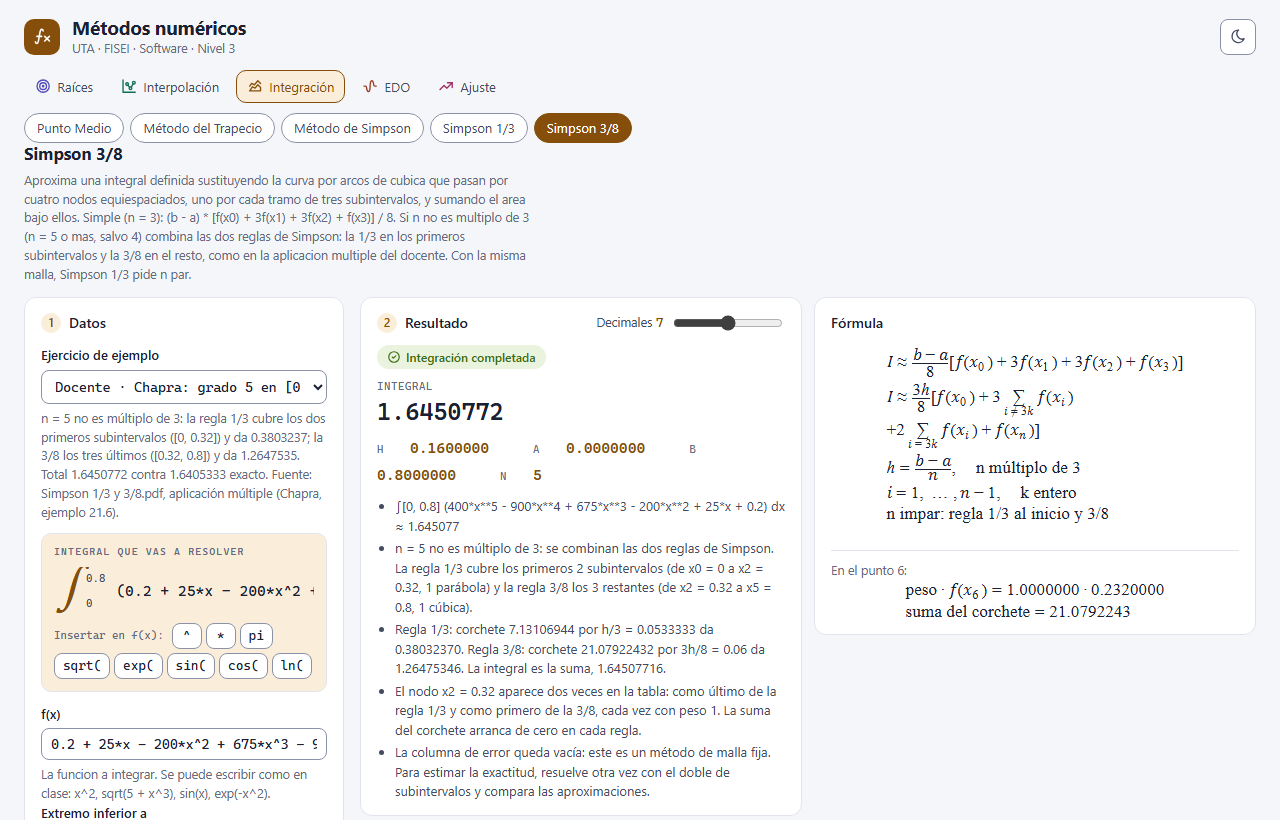
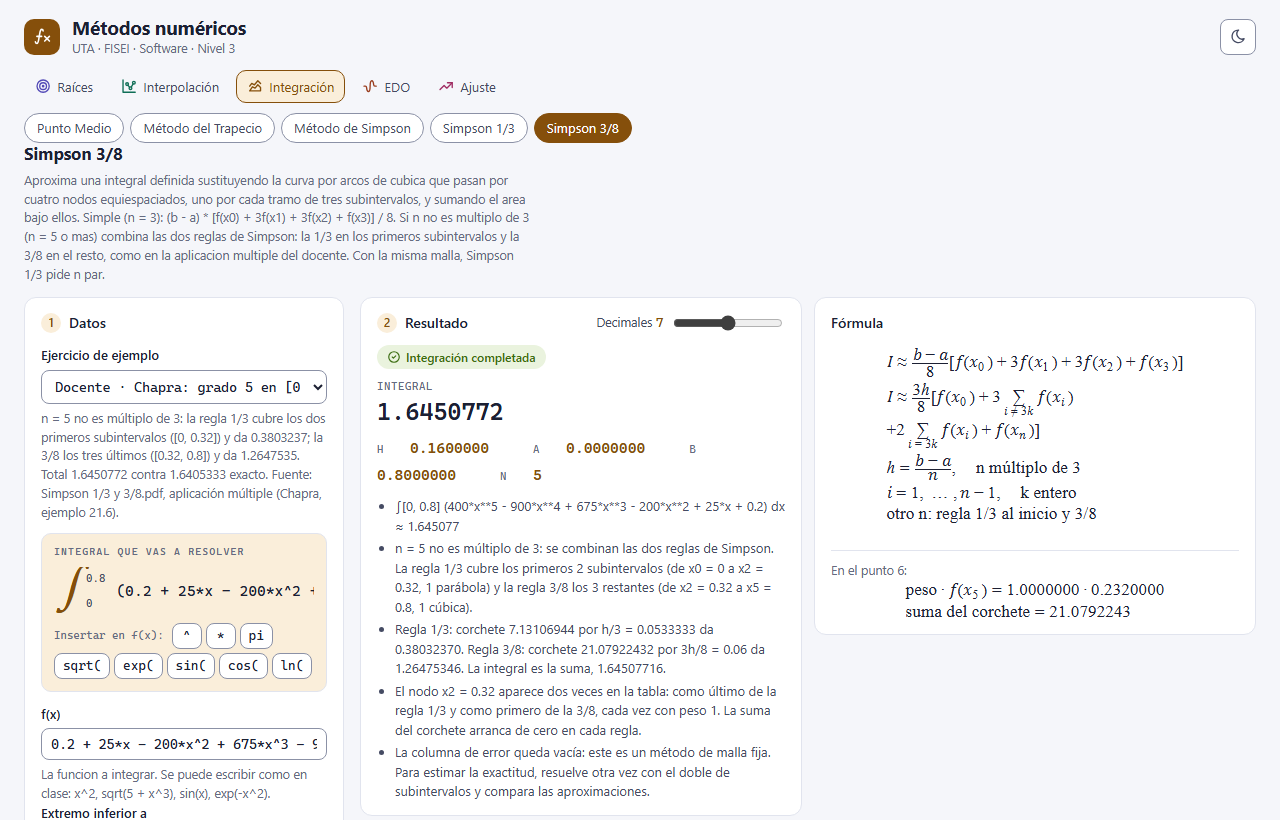
Simpson 1/3 con 2n da lo mismo que el Método de Simpson con n, la captura de Simpson 3/8 con los nodos bien rotulados y el conteo de pruebas de navegador

Changed region(s): [[0.0, 0.2744, 0.4062, 0.3659], [0.6875, 0.6098, 0.875, 0.6402]]

diff --git a/docs/VALIDACION.md b/docs/VALIDACION.md
@@ -8,15 +8,15 @@ numero. Se versiona junto al codigo, asi que una afirmacion de aca siempre
 corresponde a la version del aplicativo que la acompana.
 
 Verificacion local actual, con los once metodos: **503 pruebas de Python**,
-**324 de navegador** y **10 del sitio de GitHub Pages**, todas en verde. La
+**325 de navegador** y **10 del sitio de GitHub Pages**, todas en verde. La
 referencia historica de 2026-09-18, previa a Trapecio, tenia 275 y 39
 respectivamente. En el total de navegador no entran las dos pruebas que
 regeneran las capturas del manual, que solo corren a pedido (`CAPTURAS=1`): la
-suite lista 326 y dice «324 passed, 2 skipped».
+suite lista 327 y dice «325 passed, 2 skipped».
 
 ```bash
 python -m pytest tests/ --ignore=tests/e2e                # 503 passed
-npx playwright test --workers=1 --timeout=120000          # 324 passed, 2 skipped
+npx playwright test --workers=1 --timeout=120000          # 325 passed, 2 skipped
 npx playwright test --config playwright.pages.config.js   # 10 passed, necesita internet
 ```
 
@@ -167,7 +167,7 @@ entrega. La columna va vacia y una nota lo explica en pantalla.
 
 ## Comprobado desde el navegador
 
-Las 324 pruebas de Playwright manejan la interfaz de verdad contra el servidor
+Las 325 pruebas de Playwright manejan la interfaz de verdad contra el servidor
 real (mas dos que solo regeneran las capturas del manual, a pedido). Cubren lo que romperia la demostracion:
 
 - Resolver los once metodos y ver la tabla con sus columnas.

diff --git a/README.md b/README.md
@@ -56,7 +56,7 @@ npx playwright test --config playwright.pages.config.js
 | Punto Medio | U1 | integral definida `∫[a,b] f(x)dx` con rectangulos centrados |
 | Método del Trapecio | U1 | integral definida `∫[a,b] f(x)dx` con segmentos y trapecios |
 | Método de Simpson | U1 | integral definida `∫[a,b] f(x)dx` con arcos de parabola, `n` par, y un punto medio por subintervalo |
-| Simpson 1/3 | U1 | lo mismo con una parabola por cada dos subintervalos, `n` par (equivale al Metodo de Simpson con `2n`) |
+| Simpson 1/3 | U1 | lo mismo con una parabola por cada dos subintervalos, `n` par (con `2n` da lo mismo que el Metodo de Simpson con `n`) |
 | Simpson 3/8 | U1 | lo mismo con cubicas, `n` de 3 o mas; si `n` no es multiplo de 3 combina las reglas 1/3 y 3/8 (aplicacion multiple) |
 | Runge-Kutta | U3 | EDO y sistemas de EDO, orden 2 y 4 |
 | Ajuste por minimos cuadrados | U4 | recta `y = m x + b` con correlacion `r` y la tabla con sus totales; modelos potencial, exponencial y logaritmico |
@@ -103,7 +103,7 @@ escribio el codigo y aparecen en la del que clona.
 
 ### Pruebas de navegador
 
-Aparte de las de Python hay **324 pruebas de interfaz** con Playwright (mas dos
+Aparte de las de Python hay **325 pruebas de interfaz** con Playwright (mas dos
 que solo regeneran las capturas del manual, a pedido), que levantan el servidor
 de verdad y manejan la pantalla. Entre ellas, `tests/e2e/portada.spec.js` cubre
 la portada y la ruta por hash:

diff --git a/docs/ESPECIFICACION.md b/docs/ESPECIFICACION.md
@@ -21,7 +21,7 @@ Docentes: Ing. Henry Cumbal, Dr. Victor Penafiel.
 | R9 | Runge-Kutta debe resolver **sistemas de ecuaciones**, y aceptar tanto el paso `h` como el numero de pasos. |
 | R10 | Newton-Raphson: **la app deriva sola**, pero el usuario tambien puede escribir la derivada. |
 | R11 | Los **tres criterios de error** implementados y **configurables**. |
-| R15 | **Simpson 1/3 (U1)**, de `Simpson1.pdf`: parabolas por tres nodos equiespaciados, con `n` par y los pesos `1, 4, 2, 4, ..., 4, 1`. El ejercicio del material es `exp(x^2)` en `[0, 1]` con `n = 10`. Es la misma regla que Simpson con `2n`. |
+| R15 | **Simpson 1/3 (U1)**, de `Simpson1.pdf`: parabolas por tres nodos equiespaciados, con `n` par y los pesos `1, 4, 2, 4, ..., 4, 1`. El ejercicio del material es `exp(x^2)` en `[0, 1]` con `n = 10`. Con `2n` es la misma regla que el Metodo de Simpson con `n`. |
 | R16 | **Simpson 3/8 (U1)**: cubicas por cuatro nodos equiespaciados, con `n = 3` o multiplo de 3, y la **aplicacion multiple** (1/3 mas 3/8) cuando `n` no es multiplo de 3, como en el ejemplo 21.6 de Chapra. Cada regla muestra su corchete y su factor. |
 | R17 | **Ajuste por minimos cuadrados (U4)**: la recta `y = m x + b` con su correlacion `r`, la tabla del docente con su fila de totales, y los modelos potencial, exponencial y logaritmico. El ejercicio del docente da `m = 1.90`, `b = 0.22` y `r = 0.9976`. |
 

diff --git a/docs/INFORME.md b/docs/INFORME.md
@@ -394,7 +394,7 @@ El detalle esta en [VALIDACION.md](VALIDACION.md). En resumen:
 | | |
 |---|---|
 | Pruebas de Python | **503**, todas en verde |
-| Pruebas de navegador (Playwright) | **324**, todas en verde (mas 2 de capturas, solo a pedido) |
+| Pruebas de navegador (Playwright) | **325**, todas en verde (mas 2 de capturas, solo a pedido) |
 | Pruebas del sitio de GitHub Pages | **10**, todas en verde |
 | Instalacion probada en limpio | historial: clon nuevo, entorno virgen, 275 en verde y la interfaz sirviendo (2026-09-18, antes de Trapecio) |
 
